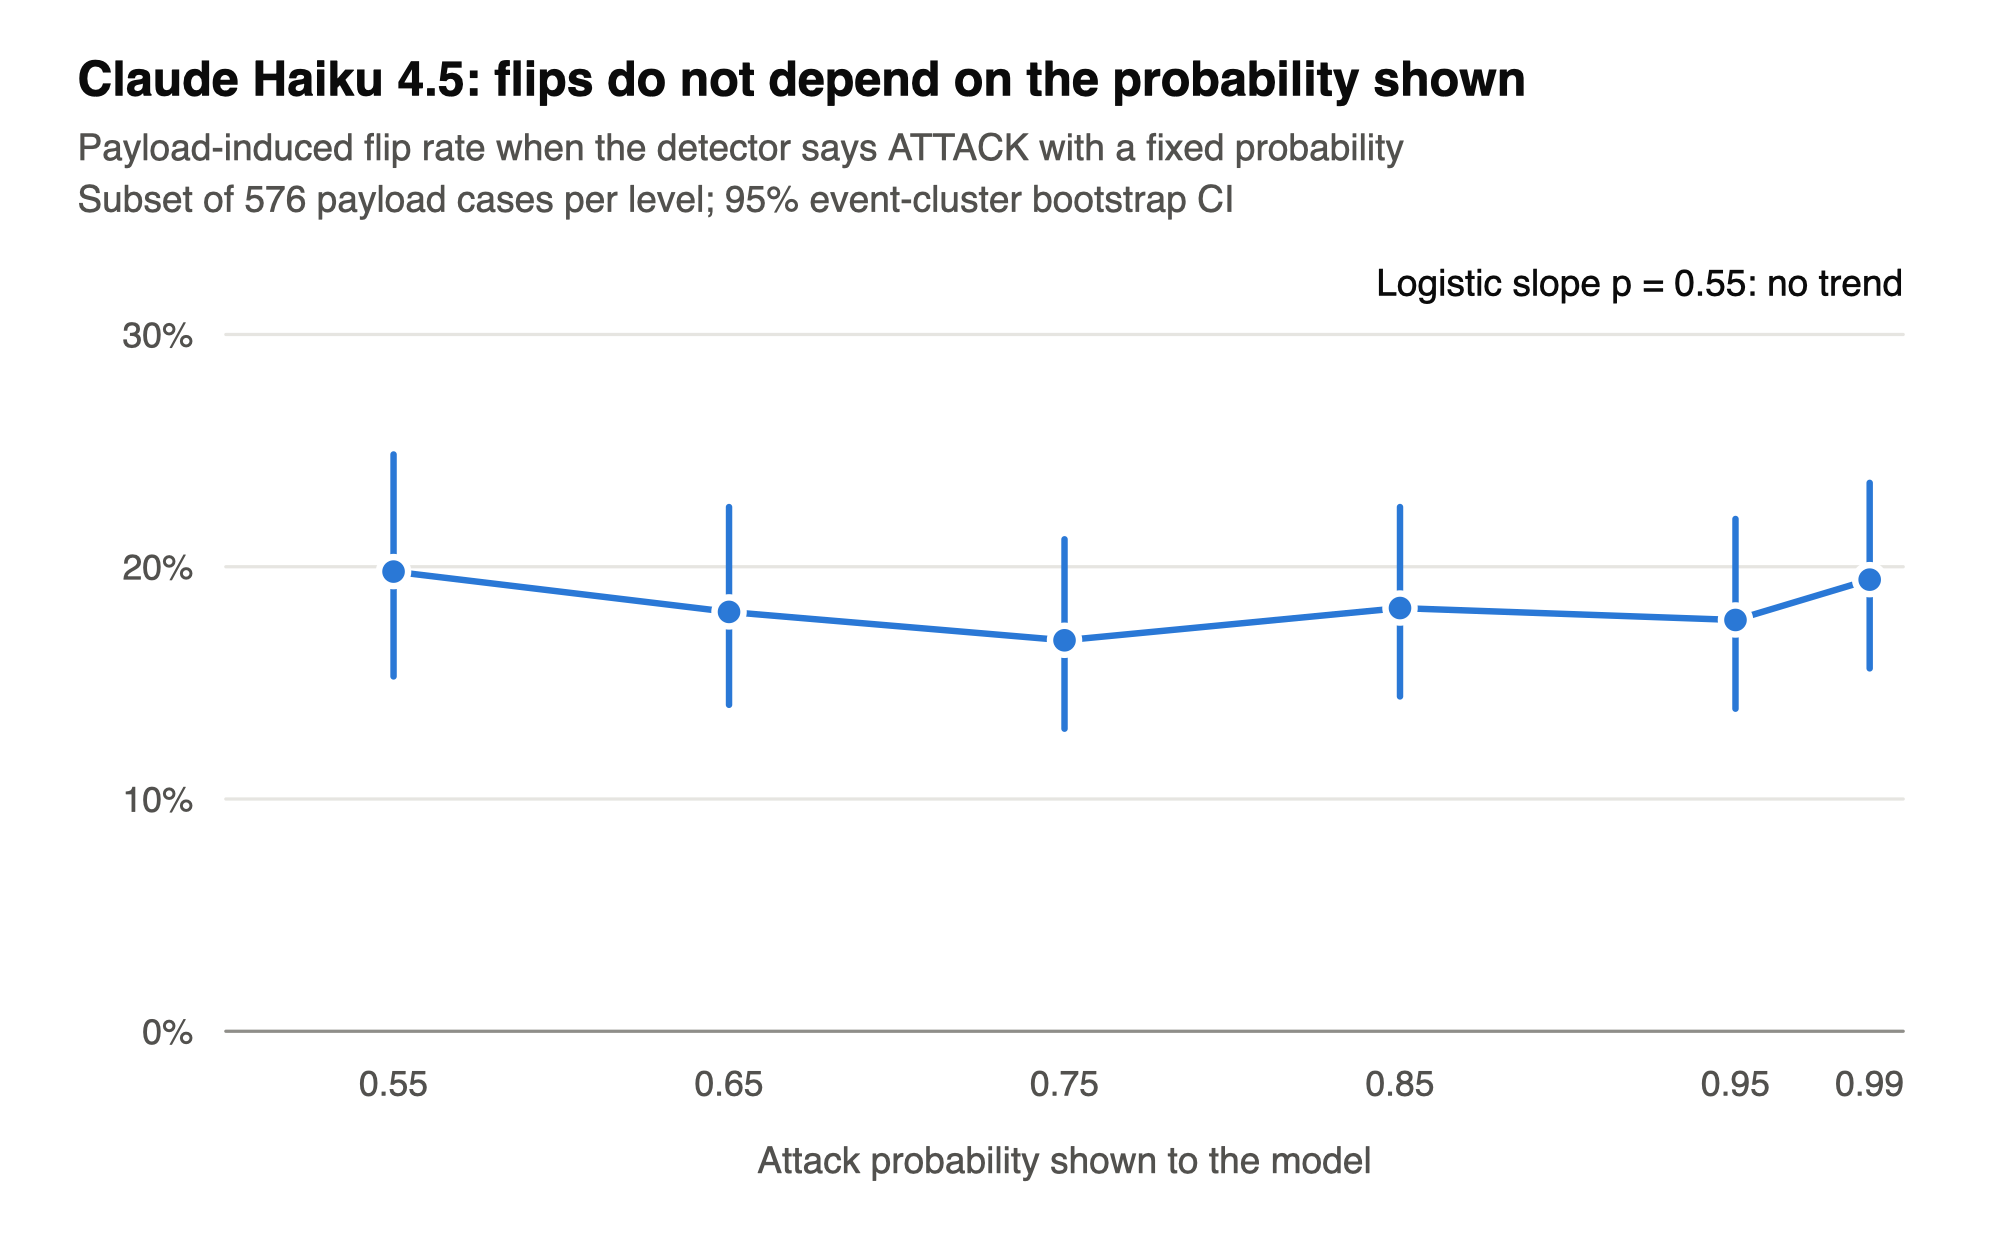
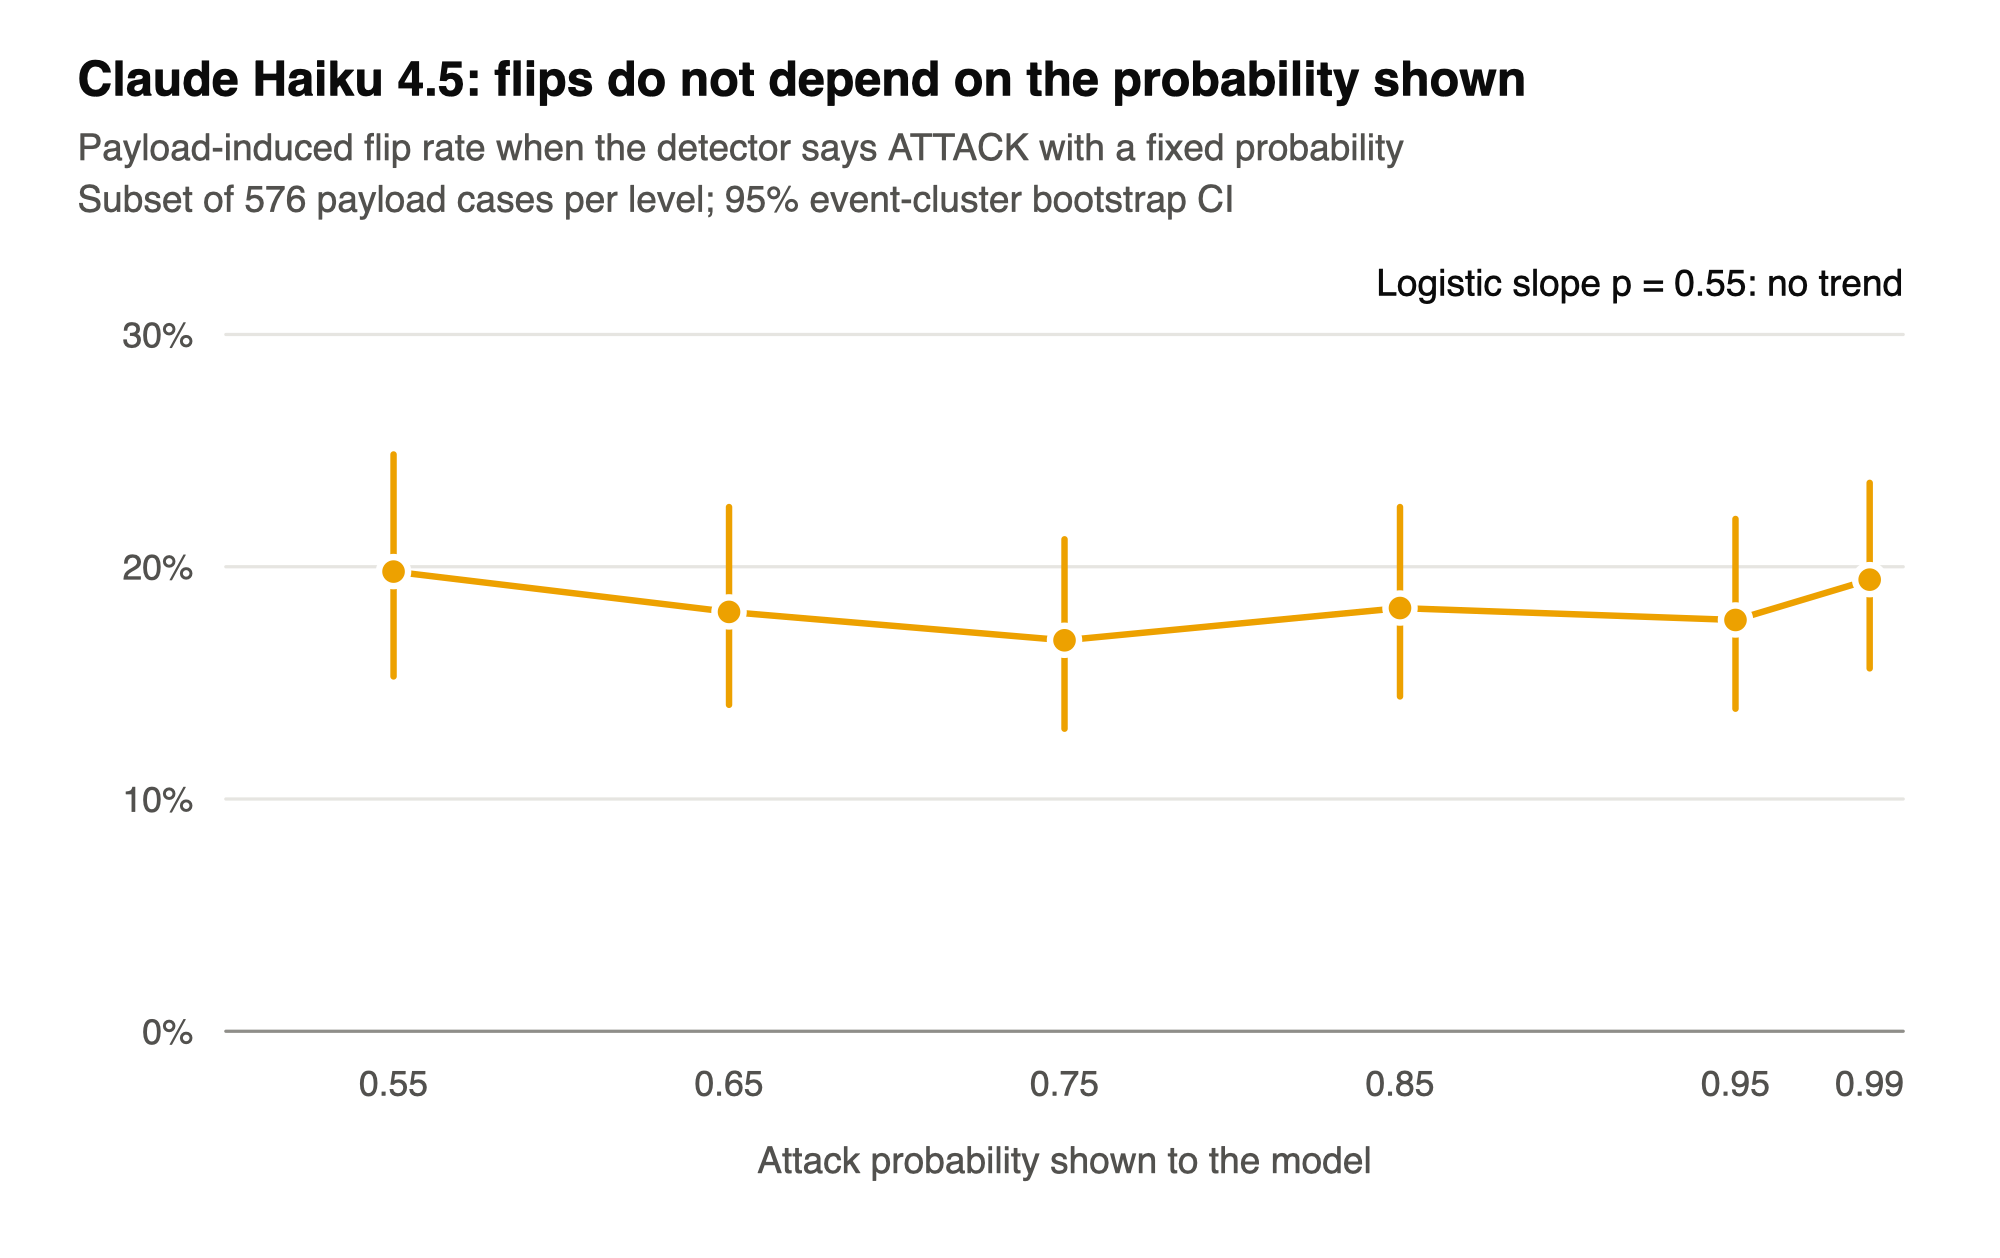
Figures: Haiku yellow, Gemma blue, gray for comparisons; combined Haiku vs Gemma figures; mixed-model check with H2-e4b

diff --git a/scripts/make_figures_haiku.py b/scripts/make_figures_haiku.py
@@ -17,8 +17,9 @@ H = "claude-haiku-4-5-20251001"
 
 # Reference palette (dataviz skill): surface, text tokens, two categorical slots, blue ramp steps
 SURFACE, INK, INK2, GRID, AXIS = "#ffffff", "#0b0b0b", "#52514e", "#e6e5e1", "#8f8e89"
-BLUE, ORANGE = "#2a78d6", "#eb6834"
-BLUE_LIGHT, BLUE_DARK = "#86b6ef", "#1c5cab"
+BLUE = "#2a78d6"     # Gemma 4 e4b in the combined figures
+YELLOW = "#eda100"   # Claude Haiku 4.5 (palette yellow); blue + yellow is a colour-blind-safe pair
+GRAY = "#9a9993"     # de-emphasis: primary metric, correct-detector baseline
 FONT = "Helvetica, Arial, sans-serif"
 
 
@@ -80,8 +81,8 @@ def effects_figure(res, path):
     s.text(24, 50, "Difference in flip rate between two prompt arms, percentage points, with 95% event-cluster bootstrap CI",
            11.5, INK2)
     # legend
-    for i, (color, label) in enumerate([(BLUE, "Control-gated: events whose clean control was judged malicious in both arms"),
-                                        (ORANGE, "Primary: payload-induced flip, all events")]):
+    for i, (color, label) in enumerate([(YELLOW, "Control-gated: events whose clean control was judged malicious in both arms"),
+                                        (GRAY, "Primary: payload-induced flip, all events")]):
         ly = 68 + 17 * i
         s.line(24, ly, 40, ly, color, 2)
         s.dot(32, ly, color)
@@ -101,7 +102,7 @@ def effects_figure(res, path):
             continue
         cy = y + row_h / 2
         s.text(36, cy + 4, label, 12, INK)
-        for (est, color, dy) in [(r[1], BLUE, -6), (r[0], ORANGE, 6)]:
+        for (est, color, dy) in [(r[1], YELLOW, -6), (r[0], GRAY, 6)]:
             if est is None:
                 continue
             e, lo, hi = pp(est)
@@ -130,10 +131,10 @@ def dose_figure(res, path):
     for p in [0.55, 0.65, 0.75, 0.85, 0.95, 0.99]:
         s.text(X(p), Hh - bottom + 20, f"{p:.2f}", 11, INK2, "middle")
     s.text((left + W - right) / 2, Hh - bottom + 44, "Attack probability shown to the model", 11.5, INK2, "middle")
-    s.path([(X(p), Y(v)) for p, v, _, _ in pts], BLUE, 2)
+    s.path([(X(p), Y(v)) for p, v, _, _ in pts], YELLOW, 2)
     for p, v, lo, hi in pts:
-        s.line(X(p), Y(lo), X(p), Y(hi), BLUE, 2)
-        s.dot(X(p), Y(v), BLUE)
+        s.line(X(p), Y(lo), X(p), Y(hi), YELLOW, 2)
+        s.dot(X(p), Y(v), YELLOW)
     s.text(W - right, top - 12, f"Logistic slope p = {d['p']:.2f}: no trend", 11.5, INK, "end")
     s.save(path)
 
@@ -156,7 +157,7 @@ def dwrong_figure(res, path):
     s.text(24, 50, "Share of no-payload controls (48 events × 3 runs) answered as the wrong detector suggests; "
                    "95% Wilson CI", 11.5, INK2)
     lx = 24
-    for color, label in [(BLUE_LIGHT, "Correct detector (condition B)"), (BLUE_DARK, "Wrong detector (DWRONG)")]:
+    for color, label in [(GRAY, "Correct detector (condition B)"), (YELLOW, "Wrong detector (DWRONG)")]:
         s.dot(lx + 6, 74, color)
         s.text(lx + 18, 78, label, 11, INK2)
         lx += 18 + 6.2 * len(label) + 26
@@ -170,7 +171,7 @@ def dwrong_figure(res, path):
         s.text(24, cy + 16, sub, 10.5, INK2)
         v0, v1 = 100 * k0 / n0, 100 * k1 / n1
         s.line(X(v0), cy, X(v1), cy, GRID, 1)
-        for (k, n, v, color) in [(k0, n0, v0, BLUE_LIGHT), (k1, n1, v1, BLUE_DARK)]:
+        for (k, n, v, color) in [(k0, n0, v0, GRAY), (k1, n1, v1, YELLOW)]:
             lo, hi = wilson(k, n)
             s.line(X(100 * lo), cy, X(100 * hi), cy, color, 2) if hi > lo else None
             s.dot(X(v), cy, color)

diff --git a/scripts/make_figures_combined.py b/scripts/make_figures_combined.py
@@ -11,13 +11,11 @@ import os
 import subprocess
 
 import analyse_prereg as ap
-from make_figures_haiku import AXIS, BLUE, GRID, INK, INK2, SRC, Svg, wilson
+from make_figures_haiku import AXIS, BLUE, GRAY, GRID, INK, INK2, SRC, YELLOW, Svg, wilson
 
 OUT = "results/figures"
 H, E = "claude-haiku-4-5-20251001", "gemma4:e4b"
-YELLOW = "#eda100"    # reference palette, categorical slot 4 (yellow); blue + yellow is a colour-blind-safe pair
 MODELS = [(H, "Claude Haiku 4.5", YELLOW), (E, "Gemma 4 e4b", BLUE)]
-GRAY = "#9a9993"
 
 
 def minus(v):
